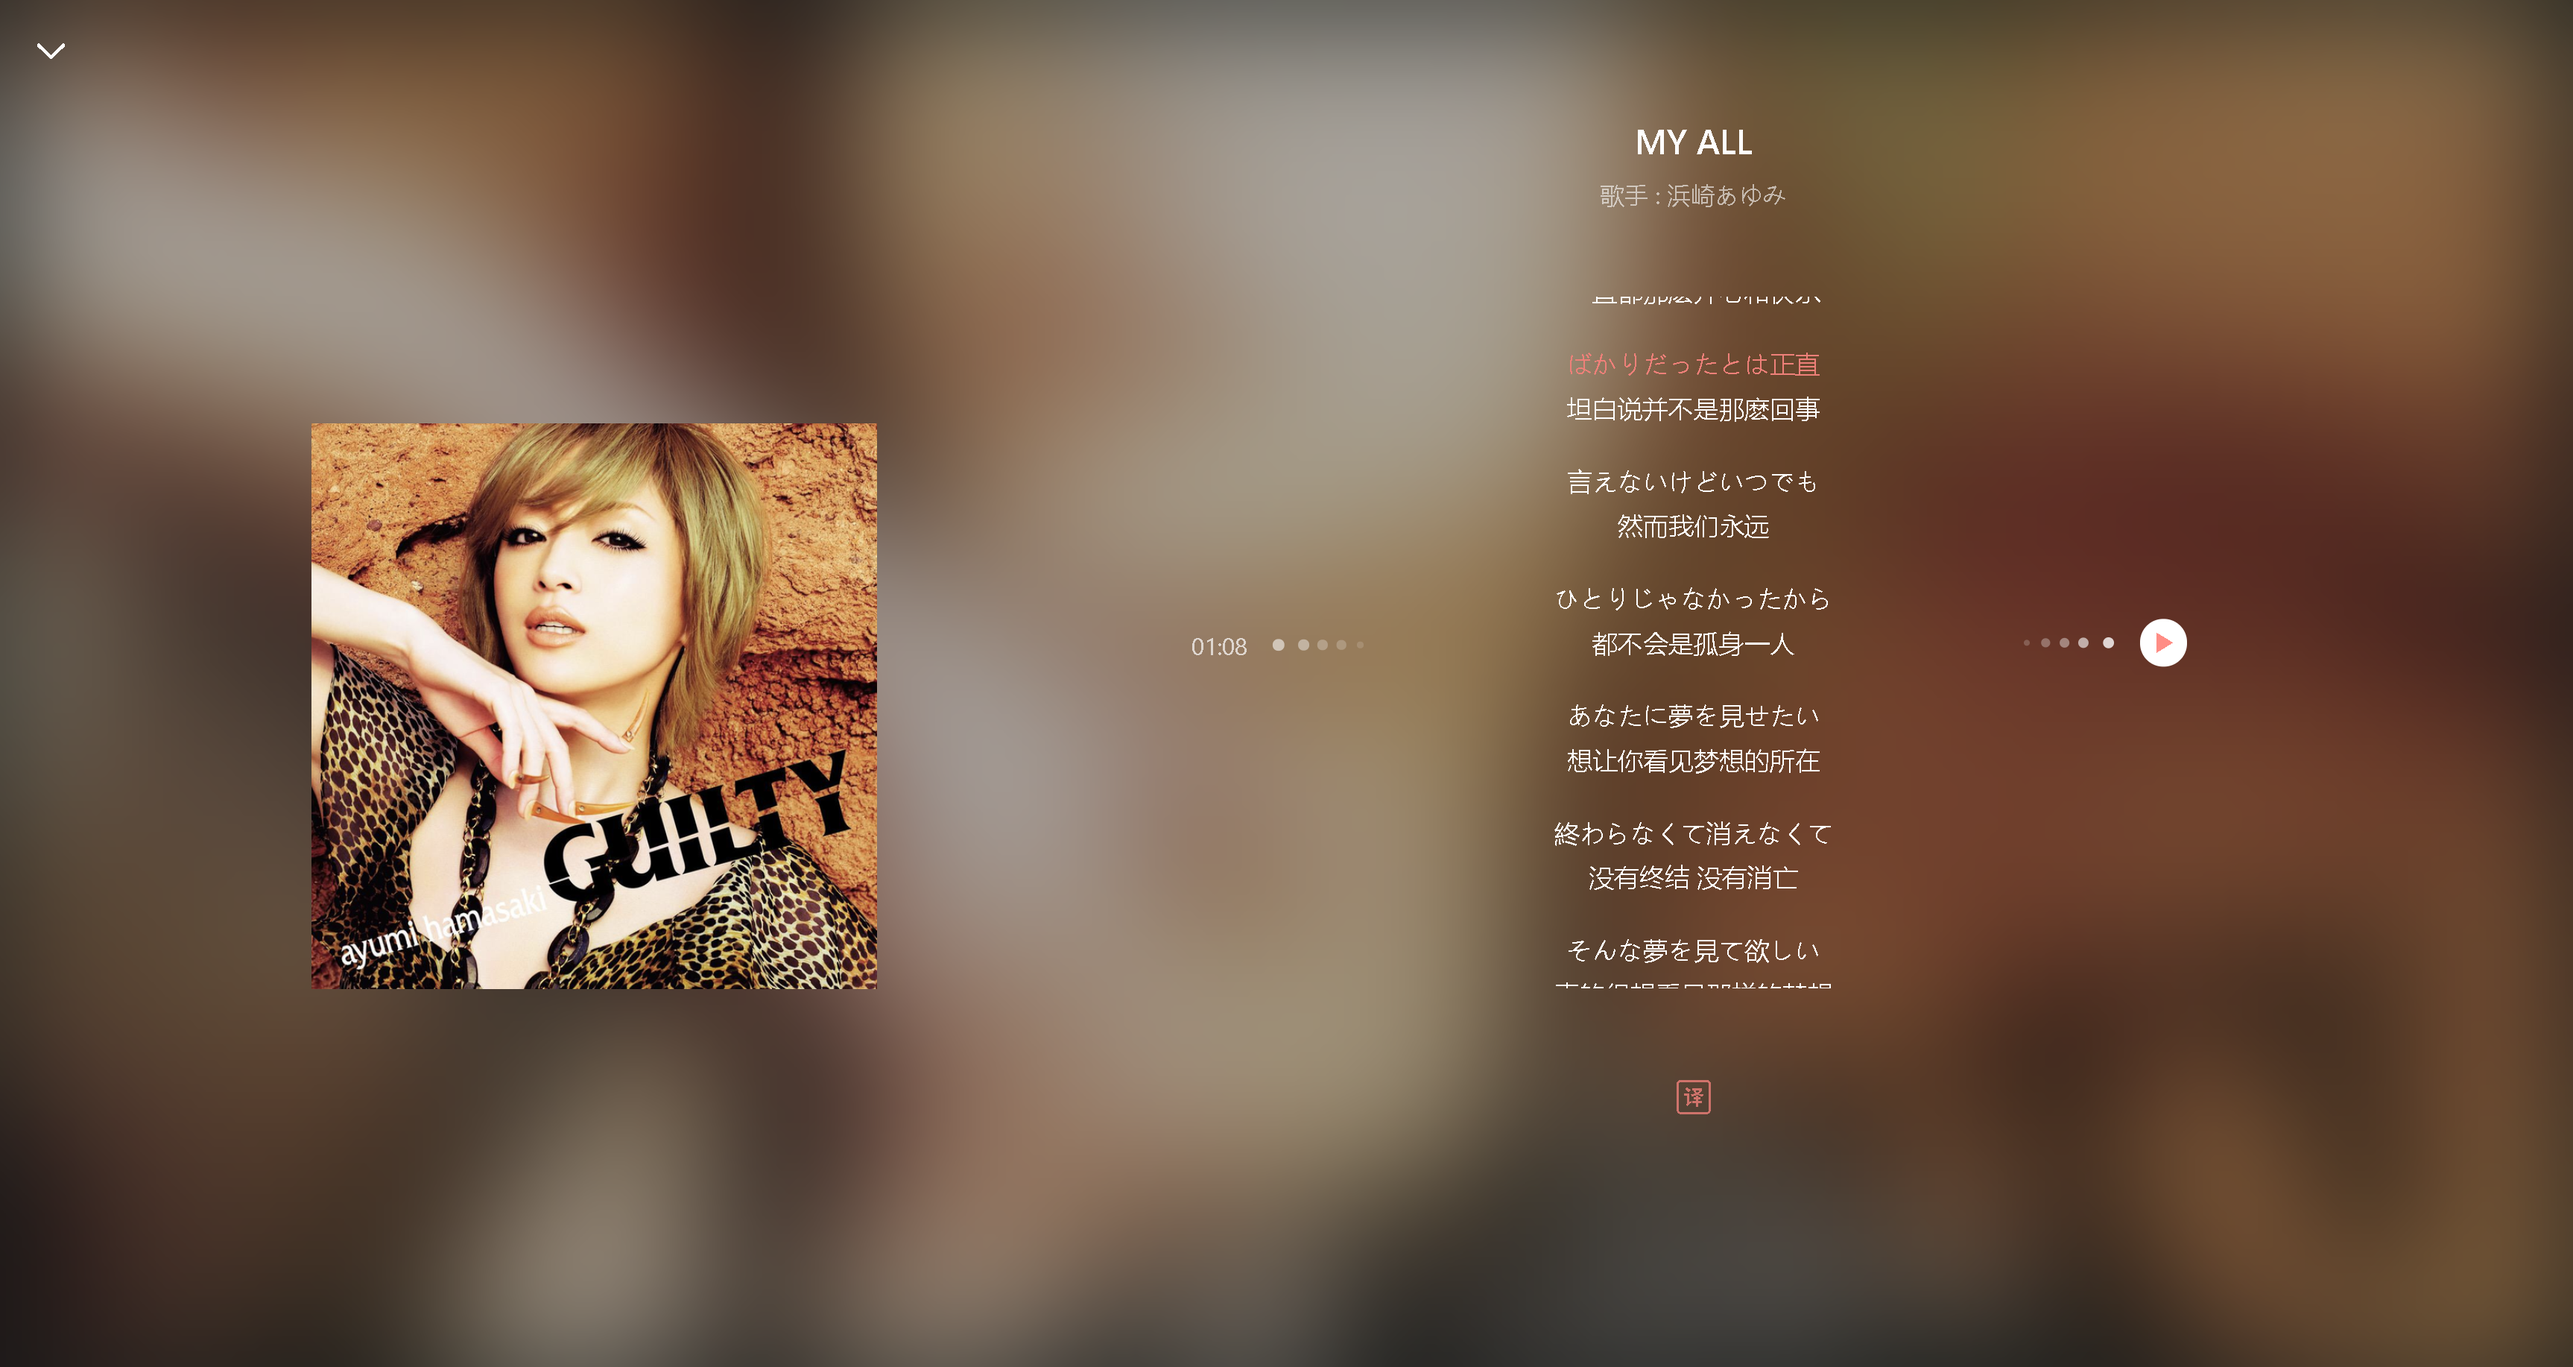
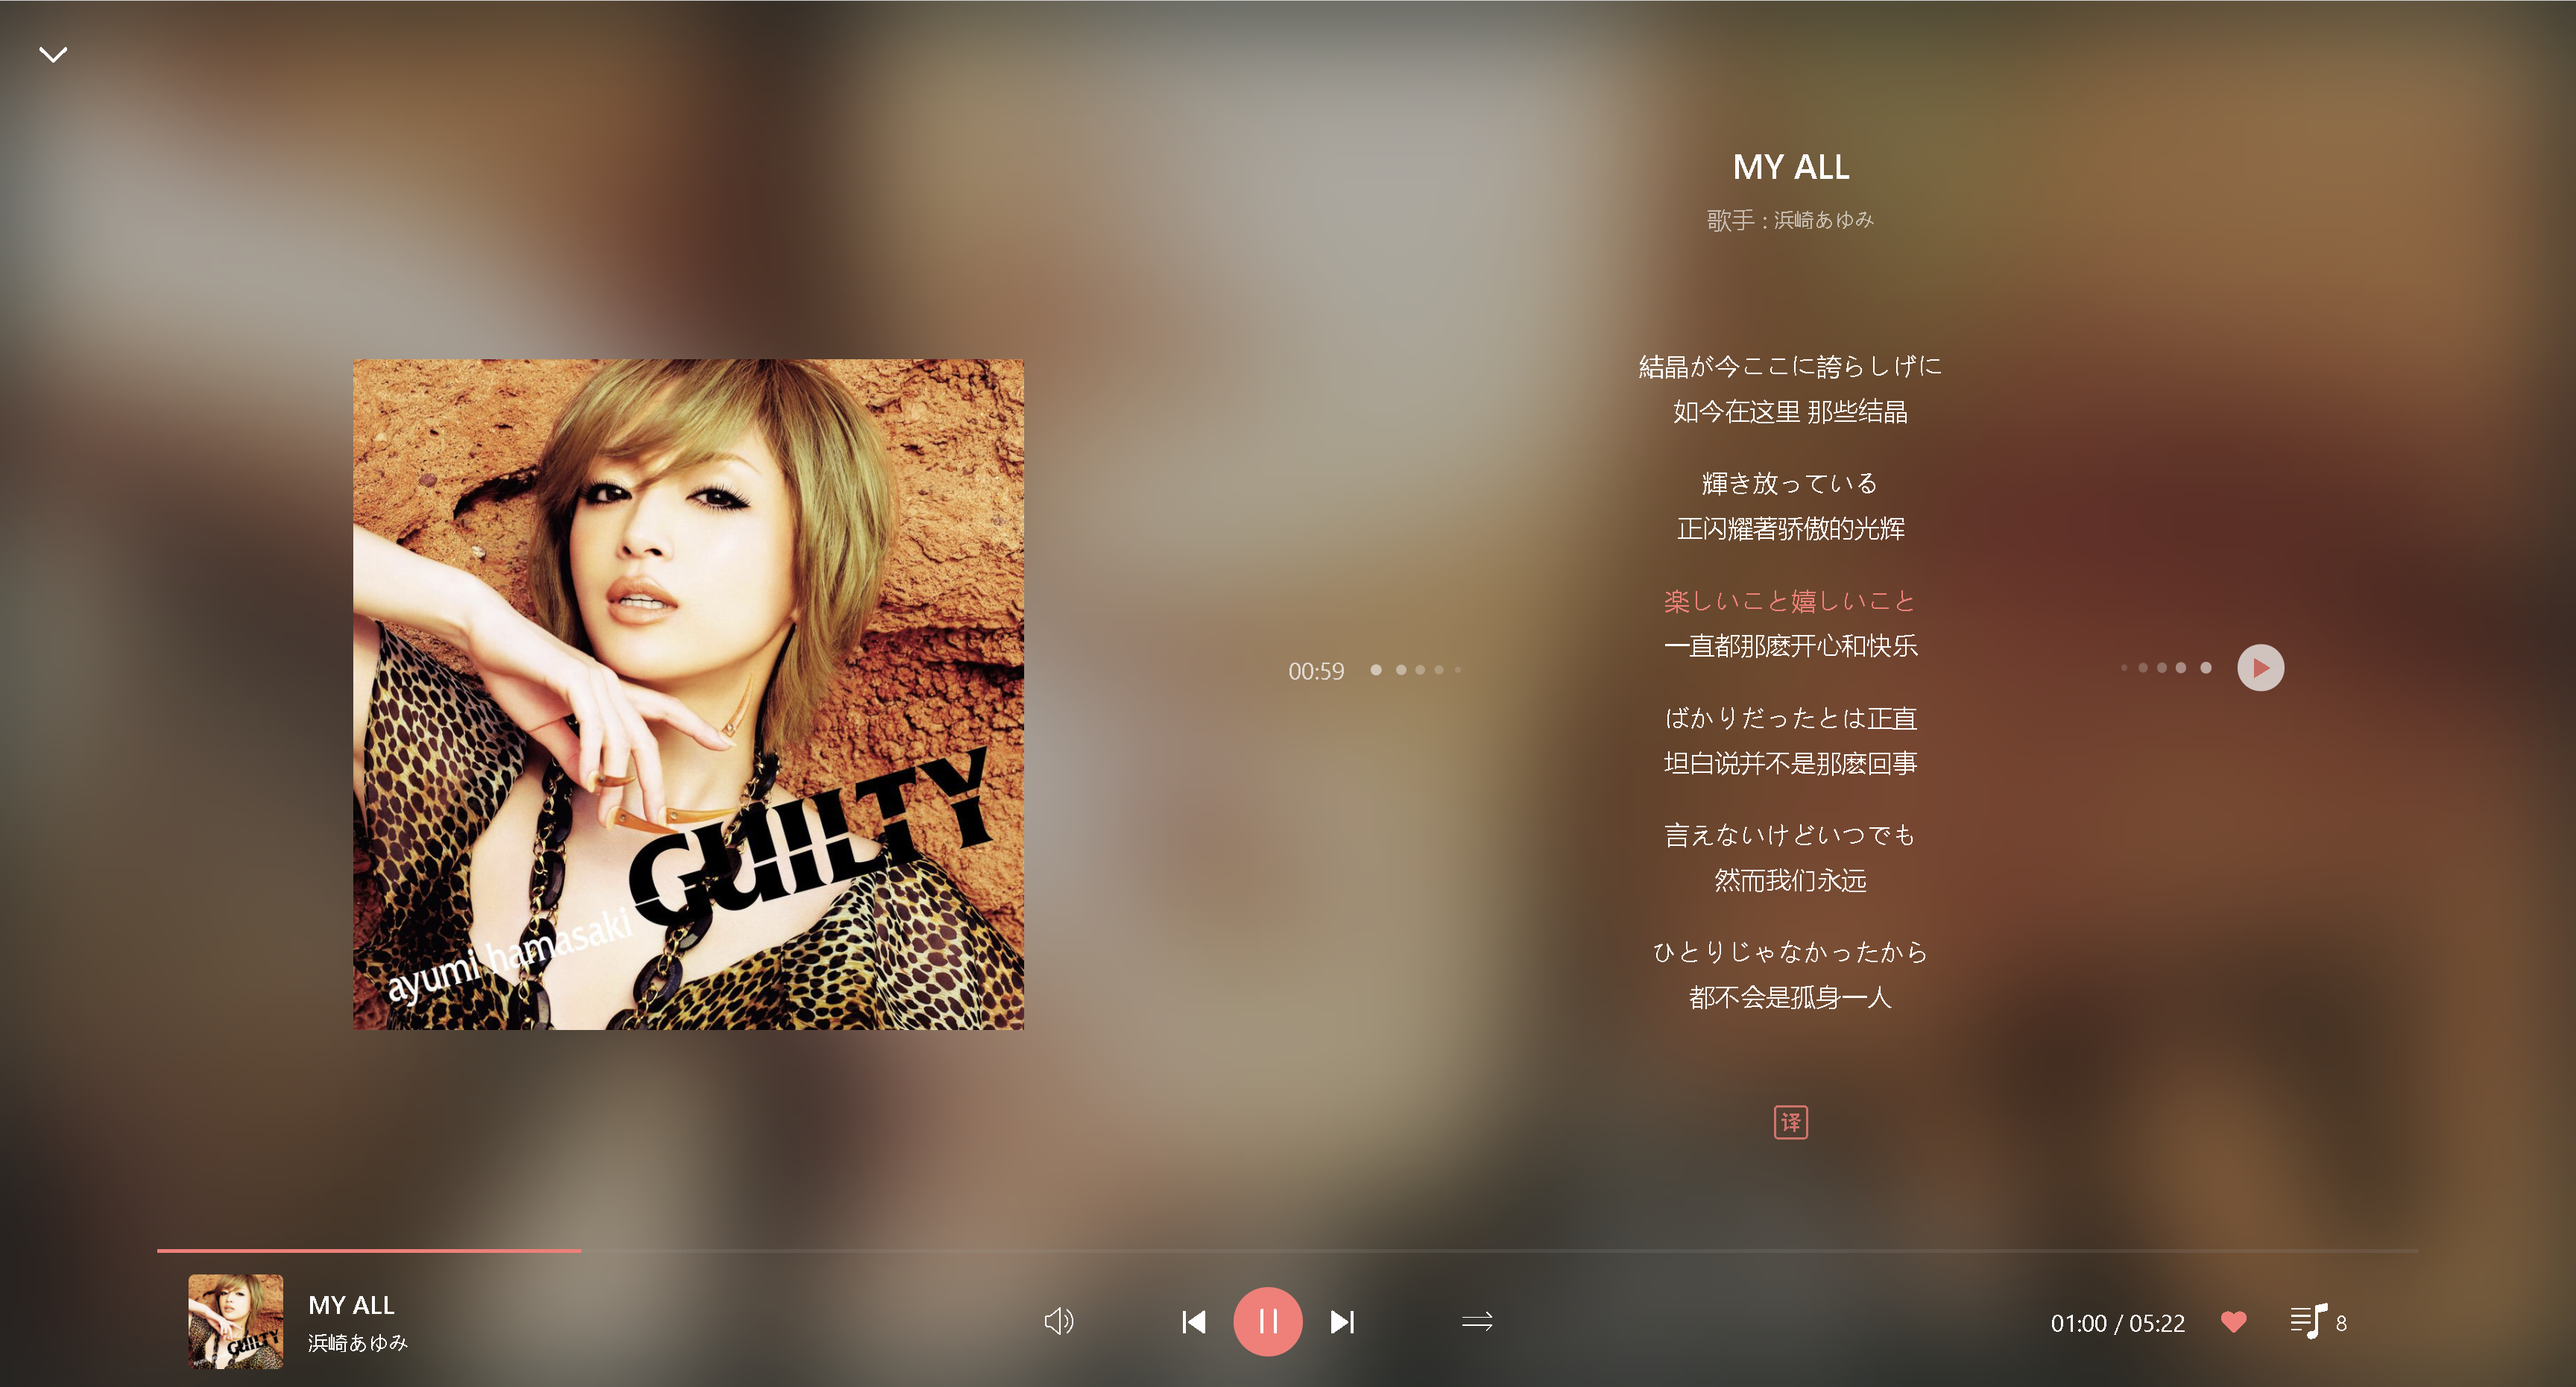
歌词界面也能显示底部控制区域；调整progressbar尺寸和位置数据获取逻辑

diff --git a/src/components/home/player-controller/index.tsx b/src/components/home/player-controller/index.tsx
@@ -1,4 +1,4 @@
-import { computed, defineComponent, ref } from "vue";
+import { computed, defineComponent, PropType, ref } from "vue";
 import { useRoute, useRouter } from "vue-router";
 import "./index.scss";
 import ProgressBar, { ProgressInfo } from "@/widgets/progress-bar";
@@ -17,6 +17,13 @@ import usePlaySwitch from "@/use/usePlaySwitch";
 
 export default defineComponent({
   name: "PlayerController",
+  props: {
+    displayInLyricPage: {
+      type: Boolean as PropType<boolean>,
+      required: false,
+      default: false,
+    },
+  },
   setup(props, { slots, emit }) {
     const router = useRouter();
     const route = useRoute();
@@ -24,13 +31,13 @@ export default defineComponent({
 
     const { toNext, toPrevious } = usePlaySwitch();
 
-    const showPlayerDetailPage = () => {
+    const showOrHidePlayerDetailPage = () => {
       const { query, path } = route;
       router.push({
         path,
         query: {
           ...query!,
-          playerStatus: 1,
+          playerStatus: Number(!props.displayInLyricPage),
         },
       });
     };
@@ -39,7 +46,7 @@ export default defineComponent({
       playerQueueShow.value = true;
     };
 
-    const progressUp = ({ decimal }: ProgressInfo) => {
+    const progressUp = ({ decimal }: ProgressInfo) => { 
       nextSeekTimeRefGlobal.value = durationRefGlobal.value * decimal;
       playingRefGlobal.value = true;
     };
@@ -50,23 +57,23 @@ export default defineComponent({
       const {
         currentSongInfo: { id, musicName, singers, album },
         playerQueue,
-      } = playerStore;
+      } = playerStore; 
 
-      return (
-        <section class="player-controller">
+      return ( 
+        <section class="player-controller" lyricPageShow={props.displayInLyricPage}>
           <div className="controller-progressbar">
             <ProgressBar
               currentRatio={(currentTimeValue * 100) / duration}
-              onDown={() => { }}
-              onMove={() => { }}
-              onChange={() => { }}
+              onDown={() => {}}
+              onMove={ () => {}}
+              onChange={() => {}}
               onUp={progressUp}
             ></ProgressBar>
           </div>
 
           <section class="controller-main">
             <section class="main-block main-left">
-              <div class="music-playbill" onClick={showPlayerDetailPage}>
+              <div class="music-playbill" onClick={showOrHidePlayerDetailPage}>
                 <img
                   src={padPicCrop(album.picUrl, { x: 180, y: 180 })}
                   alt=""
@@ -107,7 +114,7 @@ export default defineComponent({
               </div>
             </section>
           </section>
-        </section>
+        </section> 
       );
     };
   },

diff --git a/src/widgets/progress-bar/index.tsx b/src/widgets/progress-bar/index.tsx
@@ -14,13 +14,14 @@ import {
     DefineComponent,
 } from "vue";
 import {
+    computedStyle,
     decimalToPercent,
     getElmRectInfo,
     percentToDecimal,
 } from '@utils/index';
 import './index.scss';
 
-import { useEventListener } from '@vueuse/core';
+import { useEventListener, useIntersectionObserver, useMutationObserver, useResizeObserver } from '@vueuse/core';
 
 export interface StripPrjt {
     long: number;
@@ -151,6 +152,7 @@ const ProgressBar: ProgressBarComp = defineComponent({
 
         //更新进度条状态
         const updateCurrentProgress = (ev: PlainObject) => {
+            updateProgressbarInfo();
             const translate = getTranslate(ev);
             const tarDemical = translate / progressbarInfo.long;
             currentProgress.decimal = tarDemical;
@@ -201,25 +203,23 @@ const ProgressBar: ProgressBarComp = defineComponent({
             }
         );
 
+        const stripAttrs: PlainObject<string>[] = [
+            { dir: "vertical", offset: "top", long: "height", mouseOffset: "pageY", },
+            { dir: "horizontal", offset: "left", long: "width", mouseOffset: "pageX", },
+        ];
+
         /**
          * 更新progressbar信息
          */
         const updateProgressbarInfo = () => {
-            const { dir } = props;
+            const { dir } = props; 
             const stripElmRect = getElmRectInfo(stripElmRef.value!);
-            const stripAttrs: PlainObject<string>[] = [
-                { dir: "vertical", offset: "top", long: "height", mouseOffset: "pageY", },
-                { dir: "horizontal", offset: "left", long: "width", mouseOffset: "pageX", },
-            ];
             const tarAttrObj = stripAttrs.find(({ dir: tarDir }) => tarDir === dir)!;
             progressbarInfo.long = Math.round(stripElmRect[tarAttrObj.long]);
             progressbarInfo.offset = Math.round(stripElmRect[tarAttrObj.offset]);
-            progressbarInfo.attrs = tarAttrObj;
+            progressbarInfo.attrs = tarAttrObj;   
         };
-
-        useEventListener('resize', updateProgressbarInfo)
-        onMounted(updateProgressbarInfo);
-
+ 
         return () => {
             return (
                 <div

diff --git a/src/components/home/player-controller/index.scss b/src/components/home/player-controller/index.scss
@@ -1,11 +1,27 @@
 @use "sass:math";
 @import "@scss/variable";
-
-.player-controller {
-
-  position: relative;
-  width: 100%;
-  height: 100%;
+ 
+.player-controller { 
+  height: $homeBottomControllerHeight;
+  
+  &[lyricPageShow="false"] {
+    position: relative;
+    width: 100%;
+    color: #666777; 
+  }
+  
+  &[lyricPageShow="true"] {
+    position: fixed;
+    bottom: 0; 
+    left: 0; 
+    right: 0;
+    margin: 0 100px;
+    z-index: 200; 
+    color: $colorbase; 
+    .playbill-mask {
+      transform: rotate(180deg);
+    }
+  }
 
   .controller-progressbar {
     position: absolute;
@@ -33,7 +49,7 @@
       justify-content: flex-end;
     }
   }
- 
+
   $playbillWidth: 60px;
   .music-playbill {
     position: relative;
@@ -101,7 +117,8 @@
 
   .play-queue-icon {
     @include flexVc();
-    color: #666777;
+    position: relative;
+    color: currentColor;
     cursor: pointer;
     transition: color 0.1s;
     padding-left: 20px;
@@ -122,7 +139,7 @@
   .prev-music,
   .next-music {
     margin: 0 8px;
-    color: #666;
+    color: currentColor;
     font-size: 34px;
     cursor: pointer;
     transition: color 0.1s;
@@ -131,4 +148,4 @@
     }
   }
 
-}
+} 

diff --git a/src/views/player/index.tsx b/src/views/player/index.tsx
@@ -6,6 +6,8 @@ import usePlayerStore from "@/stores/player";
 import { padPicCrop } from "@/utils";
 import PlayerLyric from "@components/player/lyric"; 
 import { MusicSinger } from "@/widgets/music-tiny-comp";
+import HomeController from "@/components/home/player-controller";
+import { Transition , withDirectives, vShow } from "vue"; 
 
 export default defineComponent({
   name: "Player",
@@ -59,8 +61,8 @@ export default defineComponent({
     return () => {
       const { musicName, singers } = playerStore.currentSongInfo;
       const { size, src } = playbillRef.value;
-      const cropedSrc = padPicCrop(src, { x: 700, y: 700 });
-      return (
+      const cropedSrc = padPicCrop(src, { x: 700, y: 700 }); 
+      return ( 
         <div class="player-detail" ref={playerDetailRef} show={isShow.value}>
           <div
             class="player-bgcover-mask"
@@ -107,10 +109,9 @@ export default defineComponent({
                 </div>
               </div>
             </div>
-
-            {/* <Controller></Controller> */}
+            <HomeController displayInLyricPage={true}></HomeController>
           </div>
-        </div>
+        </div> 
       );
     };
   },

diff --git a/src/widgets/music-tiny-comp/index.scss b/src/widgets/music-tiny-comp/index.scss
@@ -9,10 +9,13 @@
  
 .controller-widget {
   position: relative;
-
-  &-noumenon,
+ 
   &-duplicate {
     color: #555;
+  }
+
+  &-duplicate,
+  &-noumenon {
     cursor: pointer;  
     i {  
       font-size: 22px;  
@@ -52,8 +55,12 @@
 
 .play-order {
   margin-left: 50px;
+  
+  &-noumenon{
+    color: currentColor;
+  }
 
-  &-duplicate {
+  &-duplicate { 
     &-item {
       @include flexHcVc();
       padding: 8px 18px;
@@ -102,6 +109,7 @@
       color: var(--theme);
     }  
   }
+  
 }
 
 .music-love-icon {
@@ -123,7 +131,7 @@
 
 .current-playtime {
   font-size: 15px;
-  color: #777;
+  color: currentColor;
   padding-right: 20px;
 }
 

diff --git a/src/views/player/index.scss b/src/views/player/index.scss
@@ -1,6 +1,6 @@
 @import "@scss/variable";
-
-.player-detail {
+ 
+.player-detail {  
   position: fixed;
   left: 0;
   top: 0;
@@ -11,14 +11,11 @@
   min-height: 600px;
   overflow: hidden;
   z-index: 150;
-  background-color: rgb(30, 40, 38);
+  background-color: rgb(30, 40, 38);  
   transform: translateY(100%);
-  transition: 0.3s;
-  // transition: .3s cubic-bezier(.22,.65,.48,.89);
-  // transition: .3s cubic-bezier(.72,.39,.42,.86);
+  transition: transform .3s;
 
   &[show="true"] {
-    // visibility: visible;
     transform: translateY(0);
   }
 

diff --git a/src/widgets/music-tiny-comp/index.tsx b/src/widgets/music-tiny-comp/index.tsx
@@ -197,7 +197,7 @@ export const Volume = defineComponent({
               <ProgressBar
                 dir="vertical"
                 dotFixed={true}
-                onChange={volumeChange}
+                onChange={volumeChange} 
                 currentRatio={decimal * 100}
               ></ProgressBar>
             </div>

diff --git a/src/views/home/index.tsx b/src/views/home/index.tsx
@@ -1,4 +1,4 @@
-import { defineComponent, onMounted, ref } from "vue";
+import { defineComponent, onMounted, PropType, ref } from "vue";
 import HomeLeft from "@/components/home/home-left";
 import HomeHeader from "@components/home/home-header";
 import HomeController from "@/components/home/player-controller";

diff --git a/src/stores/audio.ts b/src/stores/audio.ts
@@ -202,7 +202,6 @@ export const nextSeekTimeRefGlobal = (() => {
         return nextSeekTime;
       },
       set(value) {
-        console.info(value)
         currentTimeHowlerRef.value = nextSeekTime = value;
         trigger();
       }
